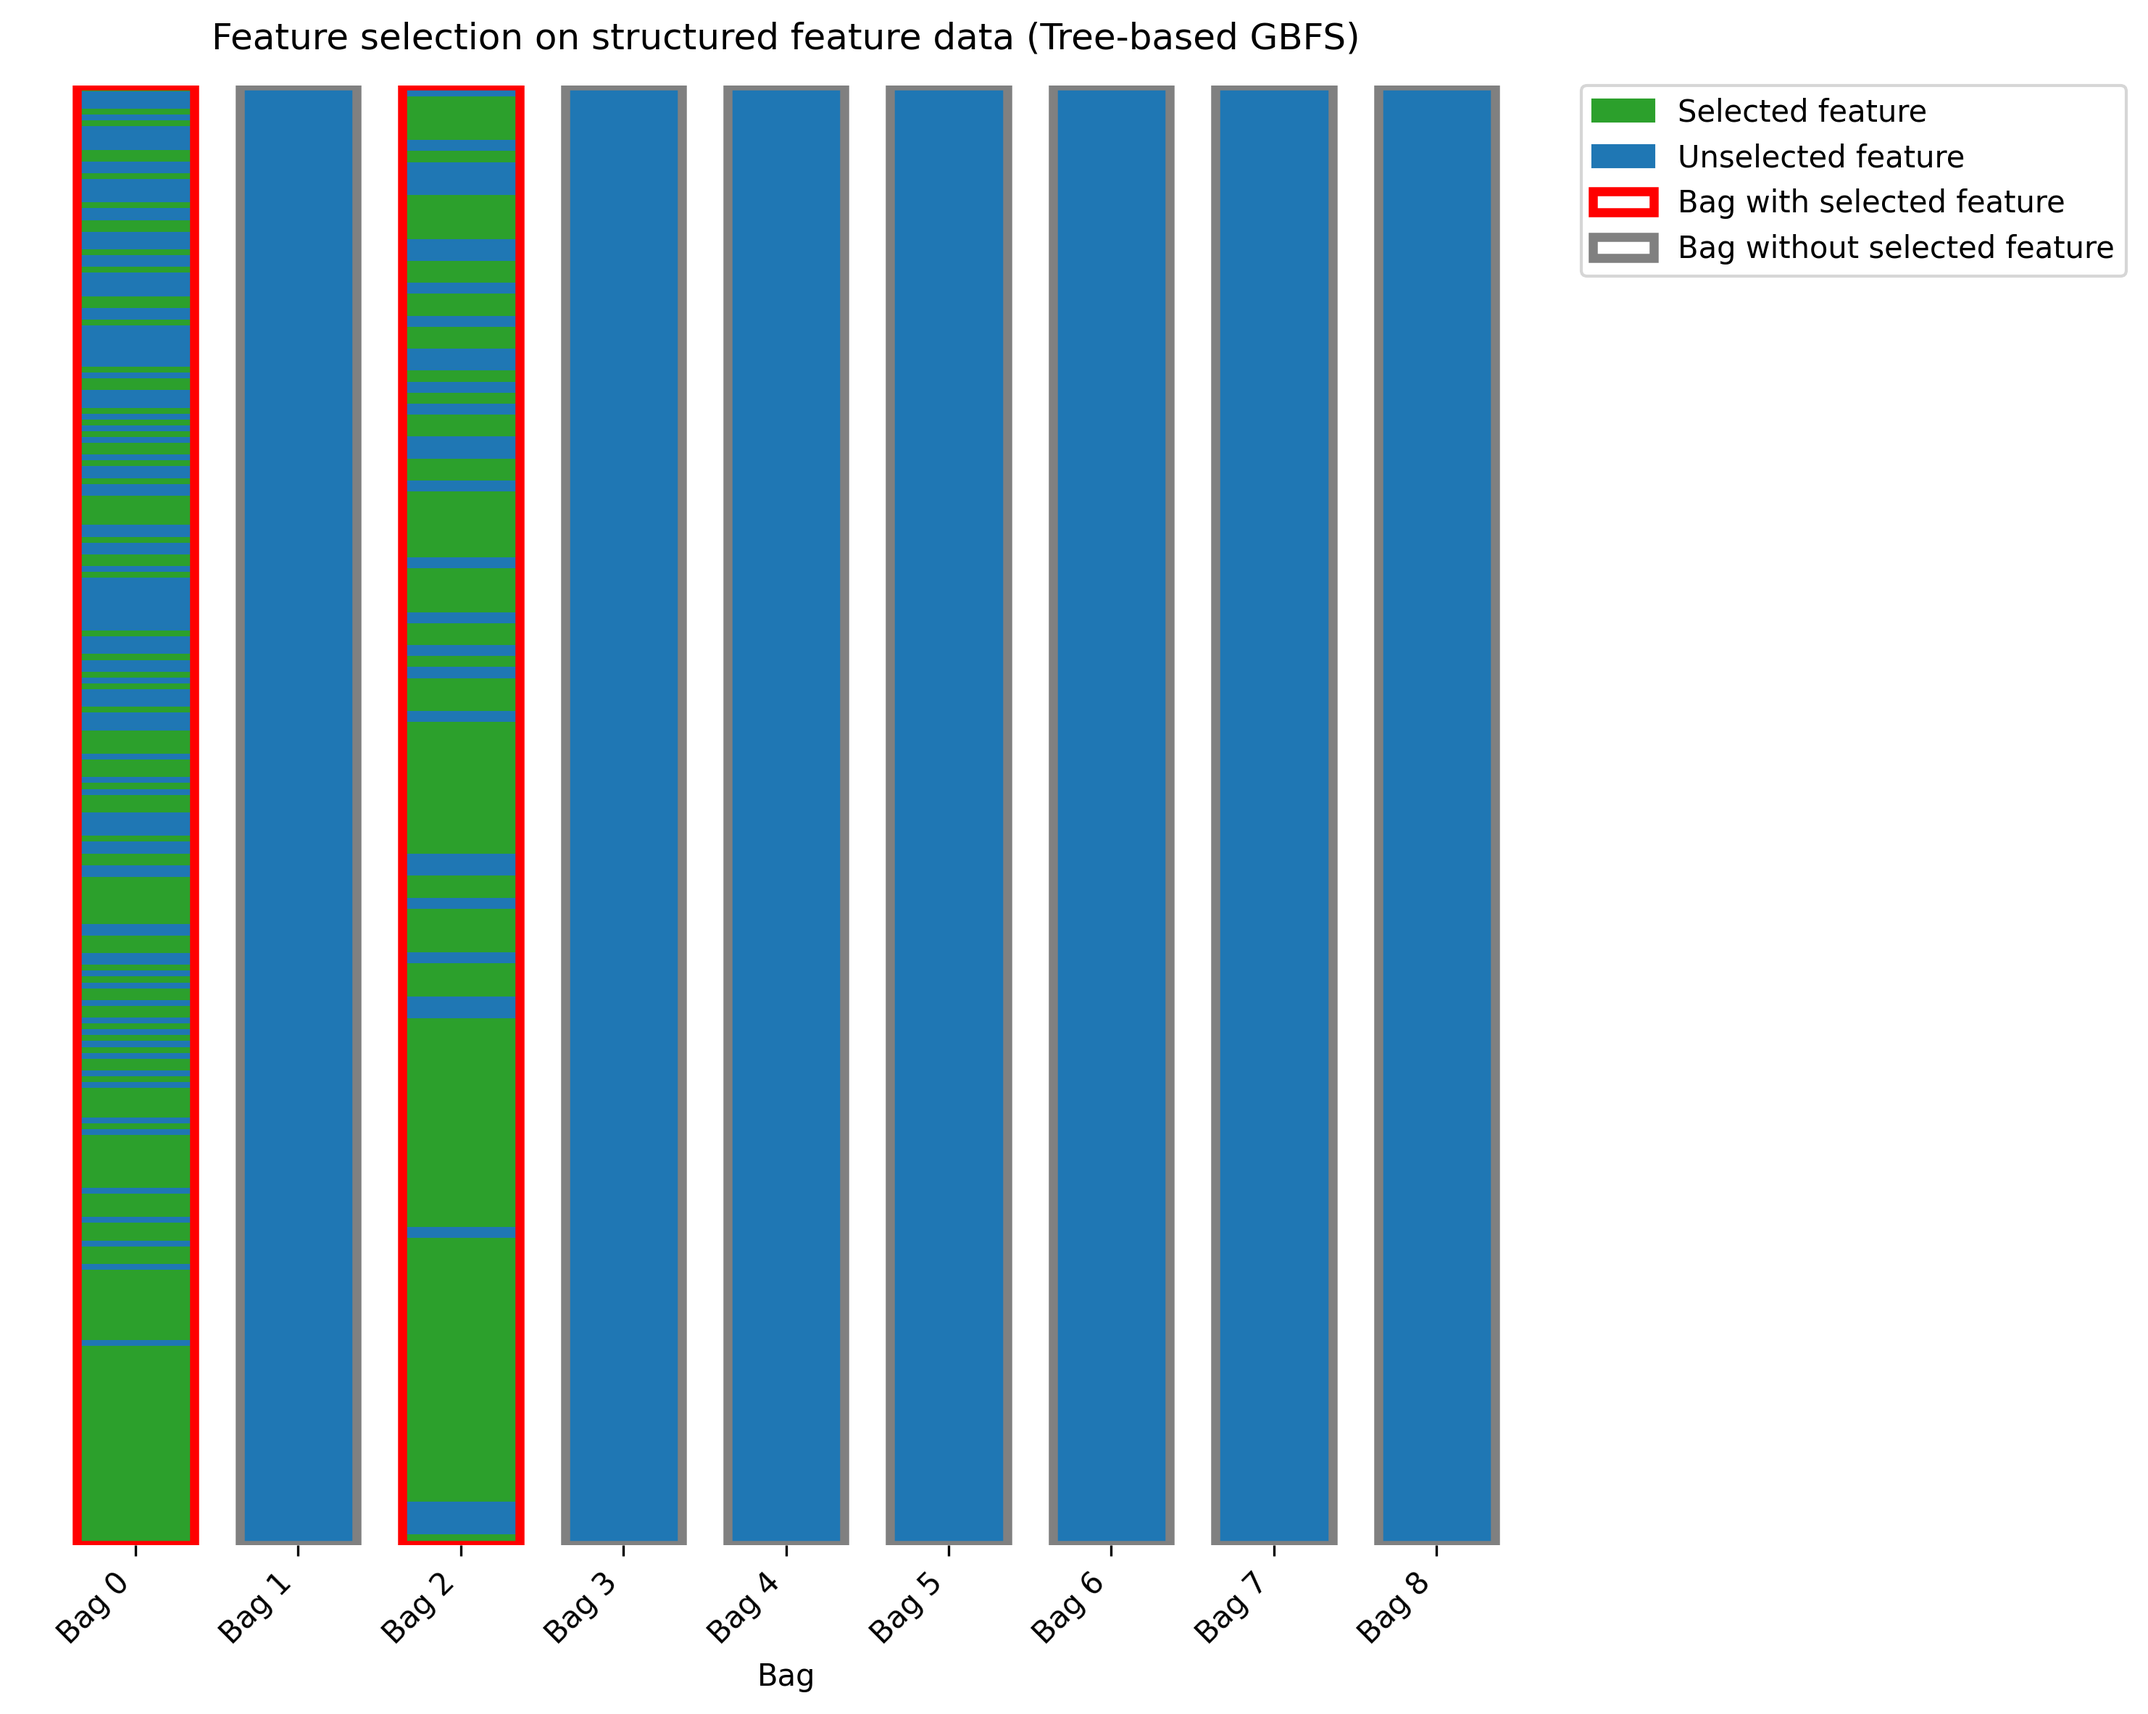
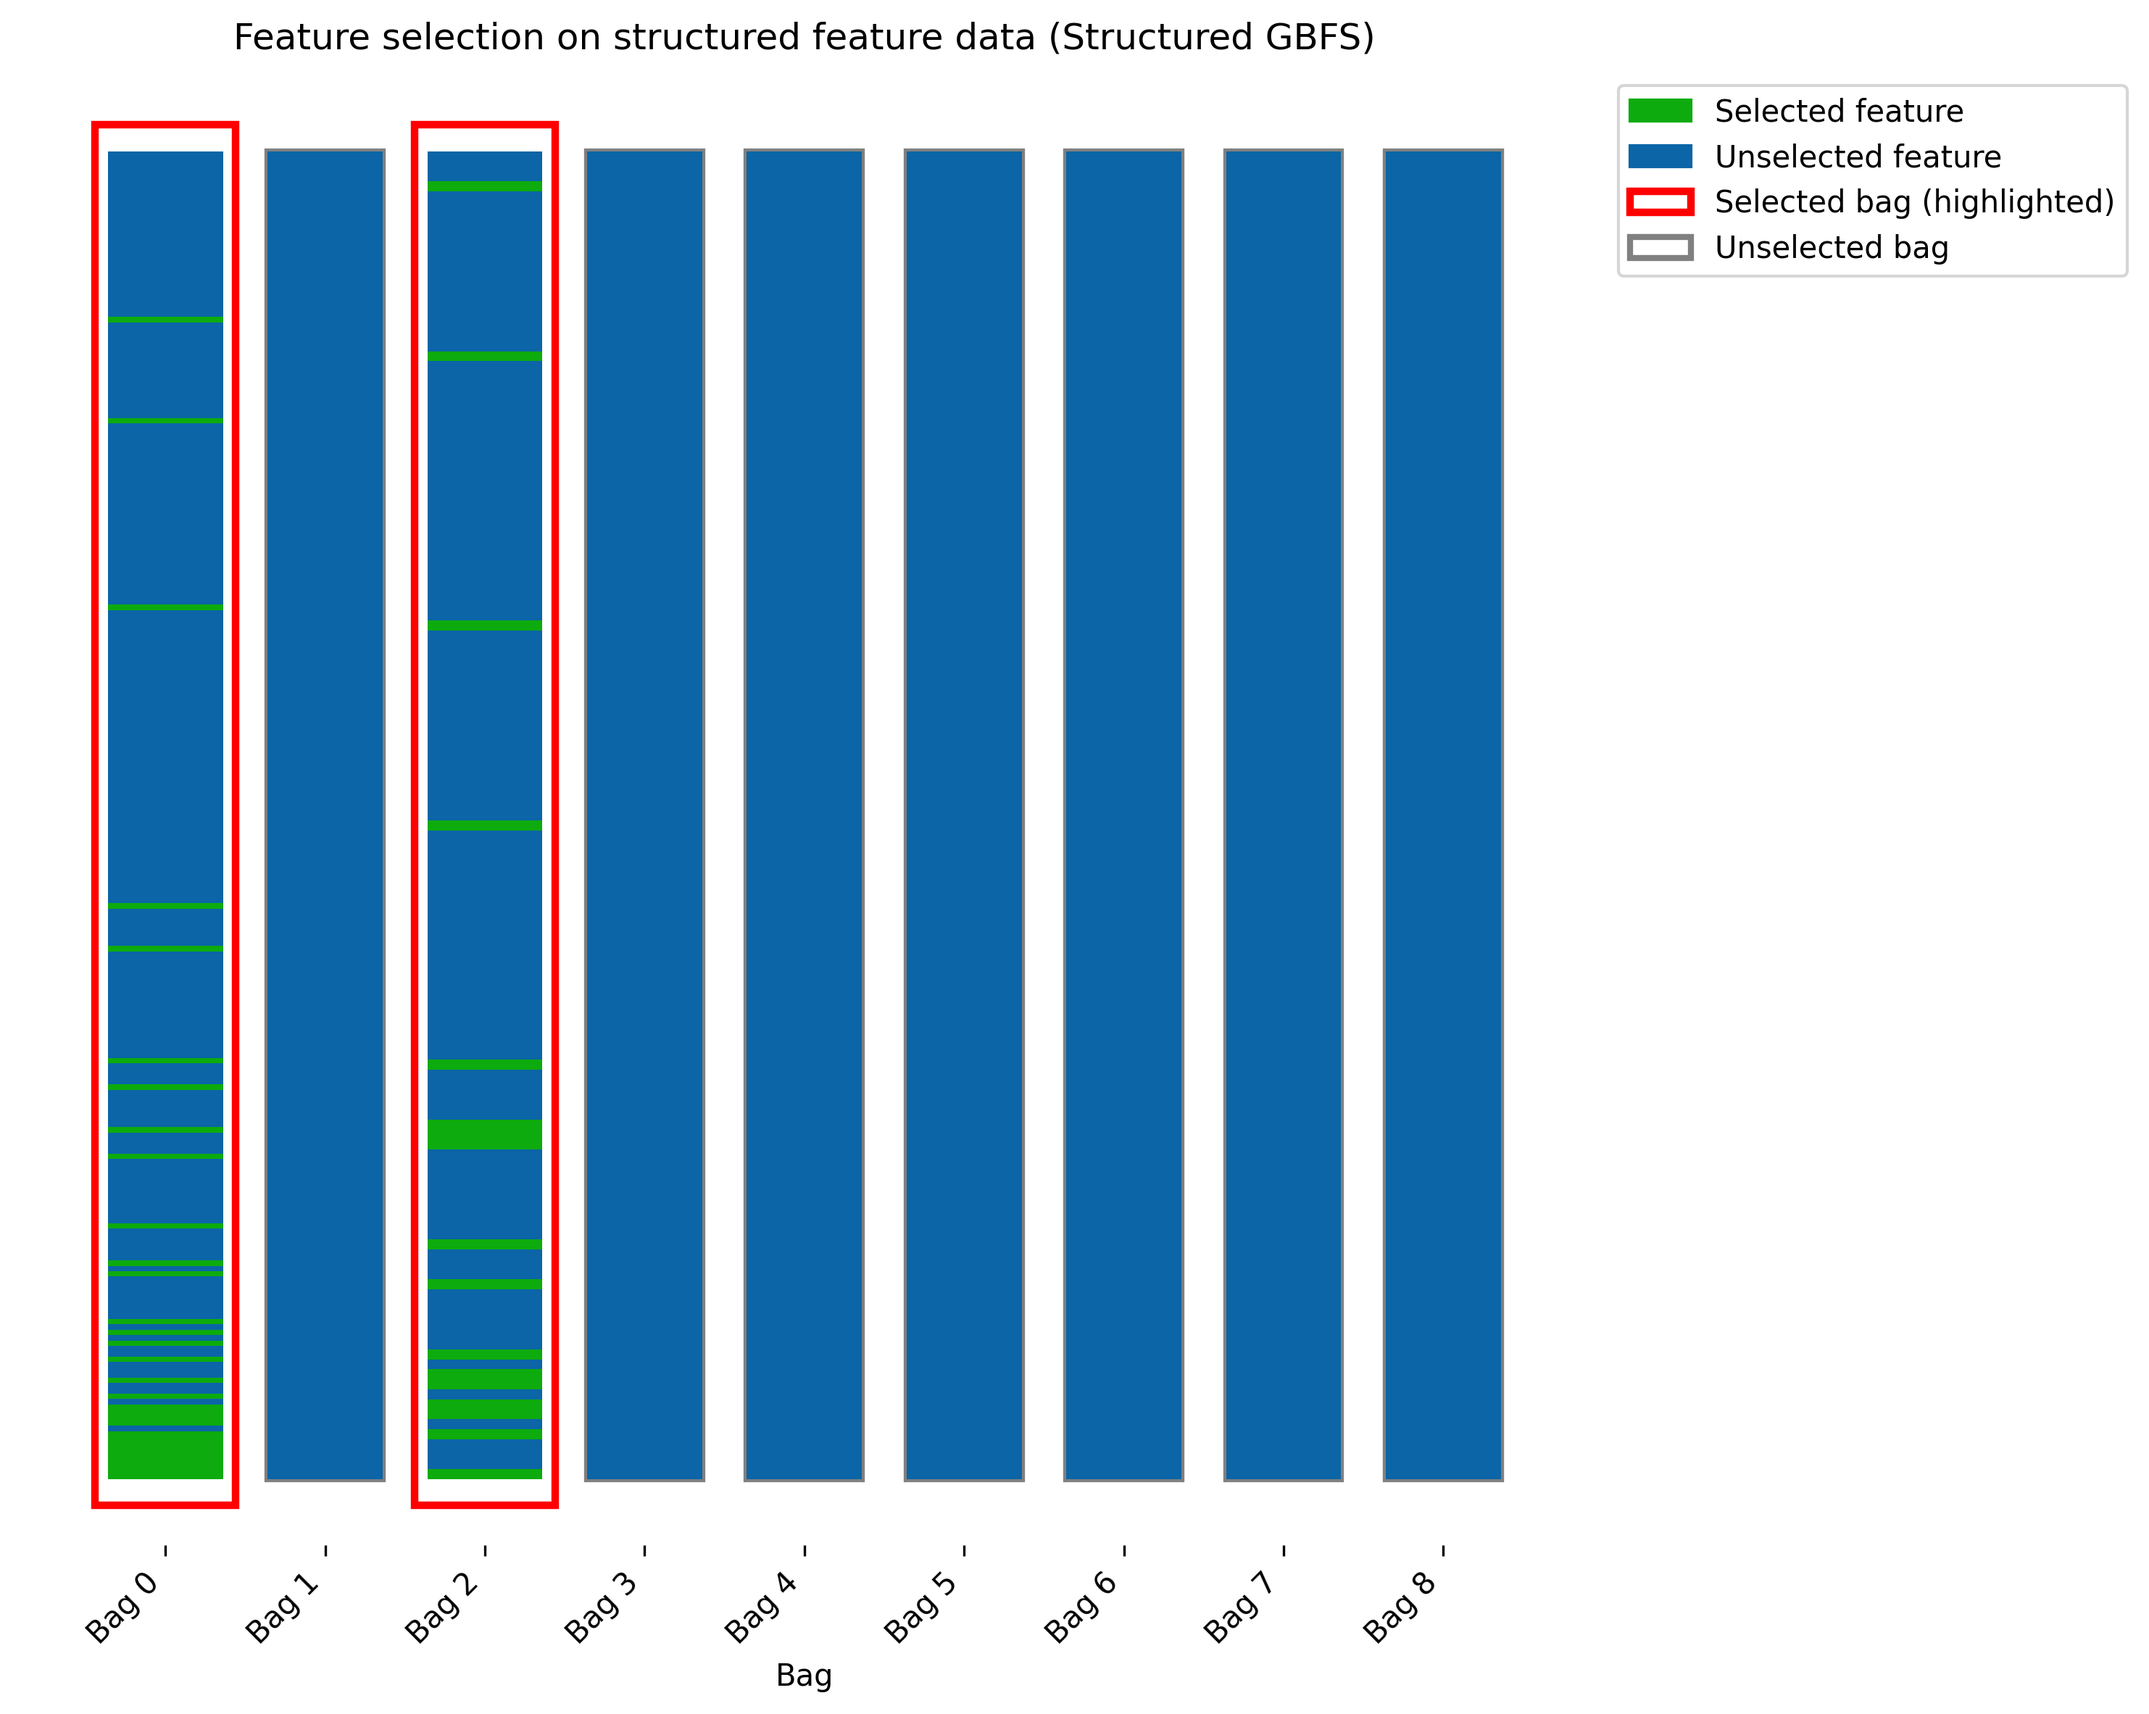
Docs: update README and replotting experimental figures.

Changed region(s): [[0.031, 0.0, 0.9933, 0.9877], [0.6208, 0.926, 0.6518, 0.9569]]

diff --git a/README.md b/README.md
@@ -10,11 +10,32 @@ pip install -r requirements.txt
 ## Tasks
 ### Task 1
 
-Enter `src/baseline.py` and run to get the results of Task 1. Directory `images/` gives some results of our runs. 
+Run
+
+```python
+cd src
+python baseline.py
+```
+
+The results should be like `images/feature_selection_by_bag_lasso.png` and `images/test_error_vs_selected_features.png`.
 
 ### Task 2
 
-Enter `src/bgfs.py` and run to get the results of Task 2. Vectorized Implementation of regression trees with feature-introduction penalty can be found in `src/tree.py`.
+
+Run
+
+```python
+python gbfs.py
+```
+
+The results should be like `images/feature_selection_by_bag_gbfs.png`. You should notice that the default setting for parallel accelerating in `hyperparam.py` may not be friendly to your device. Just find and modify the following content based on your device:
+
+```python
+results = Parallel(n_jobs=your_cores, verbose=10)(
+    delayed(run_one_fold)(mu, depth, X, y, bags, train_idx, test_idx, epsilon, T, mode="structured")
+    for mu, depth, fold_id, train_idx, test_idx in tasks
+)
+```
 
 ### Task 3
 
@@ -25,11 +46,4 @@ cd src
 python hyperparam.py
 ```
 
-to get the result. You should notice that the default setting for parallel accelerating in `hyperparam.py` may not be friendly to your device. Just find and modify the following content based on your device:
-
-```python
-results = Parallel(n_jobs=your_cores, verbose=10)(
-    delayed(run_one_fold)(mu, depth, X, y, bags, train_idx, test_idx, epsilon, T)
-    for mu, depth, fold_id, train_idx, test_idx in tasks
-)
-```
+to get the result. The results should be like `images/task3_results.png`.
